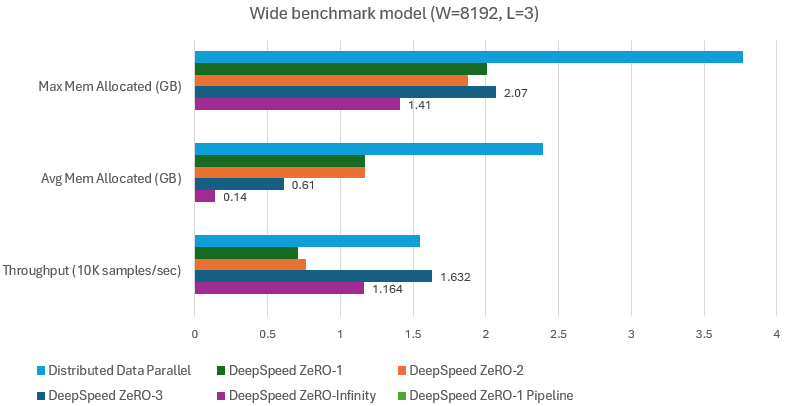
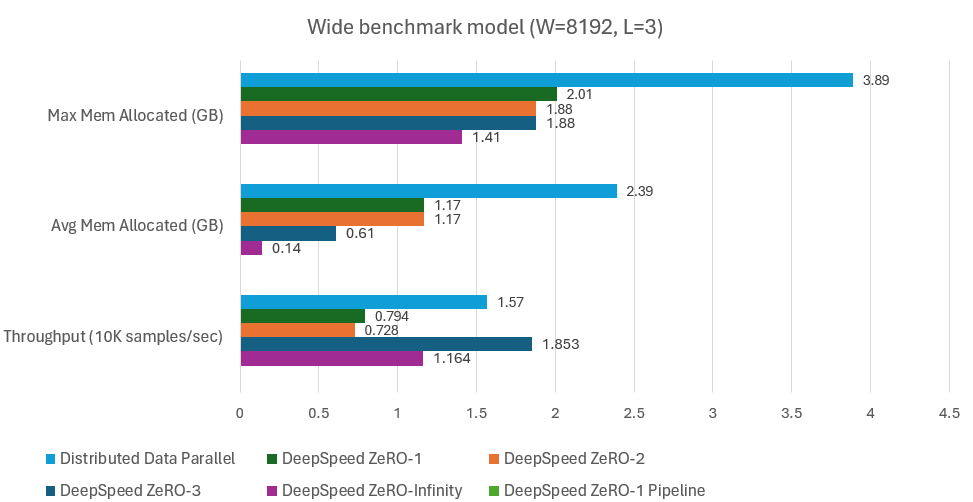
added benchmark without pipelining

diff --git a/_posts/2023-08-18-GPT-lite-DeepSpeed.md b/_posts/2023-08-18-GPT-lite-DeepSpeed.md
@@ -551,7 +551,7 @@ We benchmarked the following implementations (and configs):
 1. The distributed data parallel (DDP) implementation, ie no DeepSpeed (`stage: 0` in <a href="/assets/GPT-lite-DeepSpeed/ds_config_ZeRO.json">`ds_config_ZeRO.json`</a>);
 2. The fully-shared DDP implementation with ZeRO stages 1, 2 and 3 (`stage :1`, `2` or `3` in <a href="/assets/GPT-lite-DeepSpeed/ds_config_ZeRO.json">`ds_config_ZeRO.json`</a>);
 3. The fully-shared DDP implementation with ZeRO-3 and ZeRO-Infinity for CPU offloading (<a href="/assets/GPT-lite-DeepSpeed/ds_config_offload.json">`ds_config_offload.json`</a>);
-4. The memory-efficient pipeline implementation with ZeRO-1, 4 pipeline stages and micro-batch size of 4 (<a href="/assets/GPT-lite-DeepSpeed/ds_config_pipe.json">`ds_config_pipe.json`</a>). Note that DeepSpeed will load-balance stages across GPUs, based on parameter count. As an example, DeepSpeed divides the 4-stage pipelining across 8 GPUs on the GPT-lite model as (adapted from terminal output):
+4. The memory-efficient pipeline implementation with ZeRO-1, 4 pipeline stages and micro-batch size of 4 (<a href="/assets/GPT-lite-DeepSpeed/ds_config_pipe.json">`ds_config_pipe.json`</a>). Note that DeepSpeed will load-balance stages across GPUs, based on parameter count. As an example, DeepSpeed divides the 4-stage pipelining across 8 GPUs on the small GPT-lite model as (adapted from terminal output):
 
    ```
 RANK=0 STAGE=0 LAYERS=4 [0, 4) STAGE_PARAMS=21256704 (21.257M) \
@@ -576,35 +576,42 @@ RANK=6 STAGE=3 LAYERS=6 [10, 16) STAGE_PARAMS=21308160 (21.308M) \
 
    - **IMPORTANT**: there's an [open bug](https://github.com/microsoft/DeepSpeed/issues/4274) on DeepSpeed 0.10.3 related to activation checkpointing combined with pipelining. I will wait for the fix to be published before adding the pipeline runs to the benchmark. 
 
-We benchmark three models: a wide version of our benchmark model, with a high parametric space and a small layer count (`W=8192`, `L=3`); a deep benchmark model with a small latent space per layer and many layers (`W=256`, `L=1024`); and our GPT-lite model. The batch size was of 2048 for the benchmark model and 8 for the GPT-lite model per GPU. The results are the following:
+We benchmark three models: a wide version of our benchmark model, with a high parametric space and a small layer count (`W=8192`, `L=3`) with a micro-batch size of `'train_micro_batch_size_per_gpu': 2048` inputs per GPU:
 
 {: style="text-align:center; font-size: small;"}
-<img width="80%" height="80%" src="/assets/GPT-lite-DeepSpeed/benchmark_wide.png"/>
+<img width="90%" height="90%" src="/assets/GPT-lite-DeepSpeed/benchmark_wide.png"/>
  
+Then we test a a deep benchmark model with a small latent space per layer and many layers (`W=256`, `L=1024`), and similartly, 2048 inputs per GPU:
+
 {: style="text-align:center; font-size: small;"}
-<img width="80%" height="80%" src="/assets/GPT-lite-DeepSpeed/benchmark_deep.png"/>
+<img width="90%" height="90%" src="/assets/GPT-lite-DeepSpeed/benchmark_deep.png"/>
 
-A few observations:
-- Looking at the max vs average memory, note that the max memory in theory should be much higher at high ZeRO stages compared to low ZeRO stages and DPP. This is due to more parameters being communicated requiring more communication buffers. However, setting the communication bucket sizes to a low value in the config file overcomes this effect. In fact, we benchmarked several runs with default communication bucket sizes (`5e9`) and it led to a very high memory usage (of approximately double the amount in stages 2 and 3), and becomes prohibitive for some runs;
-- Again, note the difference between average memory and maximum memory. That volatility in memory consumption is due to all memory dedicated to activations, residual buffers and communication buffers;
-- In ideal scenarios, as you move from DDP to ZeRO-1, ZeRO-2, ZeRO-3 and ZeRO-Infinity, the memory increase and throughput are reduced. As expected, we swap data locality for communication of parameters, and pay the performance price for the communication/offload of parameters. This is the pattern in the deep benchmark model. However, the shallow model does not respond similarly, and I am still trying to understand why.   
+And finally our small variant of the GPT-lite model, with 1 input per GPU:
 
+{: style="text-align:center; font-size: small;"}
+<img width="90%" height="90%" src="/assets/GPT-lite-DeepSpeed/benchmark_gptlite.png"/>
 
-### More resources 
+Looking at the max vs average memory, note that the max memory in theory should be much higher at high ZeRO stages compared to low ZeRO stages and DPP. This is due to more parameters being communicated requiring more communication buffers. However, setting the communication bucket sizes to a low value in the config file overcomes this effect. In fact, we benchmarked several runs with default communication bucket sizes (`5e9`) and it led to a very high memory usage (of approximately double the amount in stages 2 and 3), and becomes prohibitive for some runs. Note the difference between average memory and maximum memory: that volatility in memory consumption is due to all memory dedicated to activations, residual buffers and communication buffers.
 
-We just touched the surface of the capabilities of DeepSpeed, and there are plenty of resources that should also be taken into account:
+In ideal scenarios, as you move from DDP to ZeRO-1, ZeRO-2, ZeRO-3 and ZeRO-Infinity, the memory increase and throughput are reduced. As expected, we swap data locality for communication of parameters, and pay the performance price for the communication/offload of parameters. This is the pattern in the deep benchmark model and our language model. However, the wide model does not respond similarly, and from stage 2 to stage 3 there is an increase in throughput. I believe this is due to ZeRO-3 distributing the fp16 model parameters, leading to a distributed parallelims of the very large sums of squares per layers (is it?). 
+Generally speaking, we observed a small improvement of memory efficiency, but still far from the claims of the original DeepSpeed team. One explanation is that we used a small network of 8 GPUs, compared to the 64 to 800 GPUs used by the authors in their benchmarks, therefore we achieve a much smaller memory reduction. Secondly, our config file was an optimized ballpark figure of the default config file, and there is still plenty of work to be done to adapt it to the model and to the hardware, particularly via the exploration of the [autotuning](https://www.deepspeed.ai/tutorials/autotuning/) tools. 
+
+### Final remarks
+
+We just scratched the surface of DeepSpeed capabilities. There are plenty of resources that should also be explored:
 - [Autotuning](https://www.deepspeed.ai/tutorials/autotuning/) ([README.md](https://github.com/microsoft/DeepSpeed/tree/master/deepspeed/autotuning)) allows for the automatic finetuning of the allocation of computing (shards/layers) to processors, and is useful in very large models or large clusters; 
 - [Model Parallelism](https://www.deepspeed.ai/training/#model-parallelism) for the implementation of custom tensor parallelism of models that are not implemented in DeepSpeed;
 - [Activation Partitioning](https://www.deepspeed.ai/training/#activation-checkpointing-api) reduces the memory consumed by activations during model parallel training, by storing these activations in a partitioned state after the forward pass, and doing an allgather right before they are needed again on the backward propagation; 
 - [Model Checkpointing](https://deepspeed.readthedocs.io/en/latest/model-checkpointing.html) for saving and resuming execution state, applicable to large runs that are prune to failures and interrupts;
-- [Mixture of Experts](https://www.deepspeed.ai/tutorials/mixture-of-experts/) ([API](https://deepspeed.readthedocs.io/en/latest/moe.html))  for sparsity during inference; 
-- [Using pre-trained models for inference](https://www.deepspeed.ai/tutorials/inference-tutorial/) for integrating Hugging Face models into DeepSpeed;
 - [Flops profiler](https://deepspeed.readthedocs.io/en/latest/flops-profiler.html) measures the time, flops and parameters of a PyTorch model and shows which modules or layers are the bottleneck;
 - [Sparse attention kernels](https://www.deepspeed.ai/2020/09/08/sparse-attention.html) ([API](https://www.deepspeed.ai/docs/config-json/#sparse-attention)) to support long sequences of model inputs, such as text, image, or sound;
 - [Communication optimizers](https://www.deepspeed.ai/training/#1-bit-adam-01-adam-and-1-bit-lamb-optimizers-with-up-to-26x-less-communication) offer the same convergence as Adam/LAMB but incur 26x less communication and 6.6x higher throughput on large BERT pretraining;
 - [Monitor](https://www.deepspeed.ai/training/#monitor) logs live training metrics to one or more monitoring backends to TensorBoard, csv file or other resource;
-- [Model Compression](https://www.deepspeed.ai/compression/) ([API](https://www.deepspeed.ai/docs/config-json/#compression)) via layer reduction, weight quantization, activation quantization, sparse pruning, row pruning, head pruning and channel pruning, to deliver faster speed and smaller model size;
+- [Model Compression](https://www.deepspeed.ai/compression/) ([API](https://www.deepspeed.ai/docs/config-json/#compression)) via layer reduction, weight quantization, activation quantization, sparse pruning, row pruning, head pruning and channel pruning, to deliver faster speed and smaller model size,
 
+and for inference use cases:
+- [Mixture of Experts](https://www.deepspeed.ai/tutorials/mixture-of-experts/) ([API](https://deepspeed.readthedocs.io/en/latest/moe.html))  for sparsity during inference; 
+- [Using pre-trained models for inference](https://www.deepspeed.ai/tutorials/inference-tutorial/) for integrating Hugging Face models into DeepSpeed
 
-... and many more covered by the [DeepSpeed API documentation](https://deepspeed.readthedocs.io/en/latest), the [training features page](https://www.deepspeed.ai/training/#features), the [tutorials page](https://www.deepspeed.ai/tutorials/), the [HuggingFace page for DeepSpeed](https://huggingface.co/docs/accelerate/usage_guides/deepspeed), and the examples at [DeepSpeedExamples](https://github.com/microsoft/DeepSpeedExamples/).
+For general documentation, I recommend the [DeepSpeed API documentation](https://deepspeed.readthedocs.io/en/latest), the [training features page](https://www.deepspeed.ai/training/#features), the [tutorials page](https://www.deepspeed.ai/tutorials/), the [HuggingFace page for DeepSpeed](https://huggingface.co/docs/accelerate/usage_guides/deepspeed), and the examples at [DeepSpeedExamples](https://github.com/microsoft/DeepSpeedExamples/).
 
